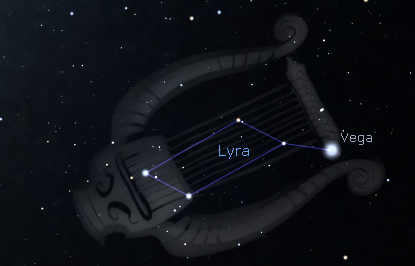
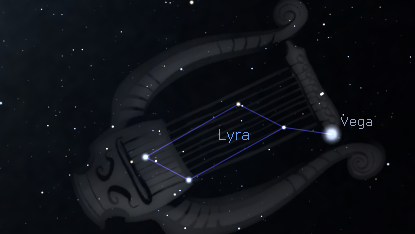
Corecting Image size + adding accordion to List

diff --git a/Constellations/cssTest/list/list.js b/Constellations/cssTest/list/list.js
@@ -1,4 +1,5 @@
 const jsonAPi = "http://localhost:3000/";
+const modalConstellation = document.getElementById("modalConstellation");
 const getConstellations = async () => {
 	try {
 		const res = await axios.get(jsonAPi + "constellations");
@@ -23,6 +24,10 @@ const createLinkName = (constellation) => {
 
 	newDiv.append(starImg, divName);
 	season.append(newDiv);
+
+	newDiv.addEventListener("click", () => {
+		test(constellation);
+	});
 };
 
 const organiseConstellation = async () => {
@@ -36,10 +41,98 @@ const organiseConstellation = async () => {
 };
 
 organiseConstellation();
-const nameOfconst = document.querySelectorAll(".containerName");
 
-nameOfconst.forEach((constellation) => () => {
-	constellation.addEventListener("click", () => {
-		console.log("coucou");
-	});
+const activateAccordion = () => {
+	const accordion = document.getElementsByClassName("container");
+
+	for (i = 0; i < accordion.length; i++) {
+		accordion[i].addEventListener("click", function () {
+			this.classList.toggle("active");
+		});
+	}
+};
+
+const test = (constellation) => {
+	modalConstellation.style.display = "block";
+
+	const accordionContent = document.querySelector(".accordion");
+	accordionContent.innerHTML = "";
+
+	const accordionTitle = document.createElement("h1");
+	accordionTitle.innerText = constellation.name;
+
+	const descriptionTitle = document.createElement("div");
+	descriptionTitle.innerText = "Small description";
+	descriptionTitle.className = "label";
+	const imageOfStars = document.createElement("img");
+	imageOfStars.src = `../${constellation.imageConstellation}`;
+	const divText = document.createElement("div");
+	divText.innerText = constellation.quickDescription;
+	const divDescriptionAll = document.createElement("div");
+	divDescriptionAll.className = "content";
+	divDescriptionAll.append(imageOfStars, divText);
+	const divDescriptionContainer = document.createElement("div");
+	divDescriptionContainer.className = "container";
+	divDescriptionContainer.append(descriptionTitle, divDescriptionAll);
+	const hrDescription = document.createElement("hr");
+
+	const schemaTitle = document.createElement("div");
+	schemaTitle.innerText = "The stars that compose it";
+	schemaTitle.className = "label";
+	const schemaOfStars = document.createElement("img");
+	schemaOfStars.src = `../${constellation.imageStars}`;
+	const divStarText = document.createElement("div");
+	divStarText.innerText = constellation.mostBrillantStars;
+	const divSchemaAll = document.createElement("div");
+	divSchemaAll.className = "content";
+	divSchemaAll.append(schemaOfStars, divStarText);
+	const divSchemaContainer = document.createElement("div");
+	divSchemaContainer.className = "container";
+	divSchemaContainer.append(schemaTitle, divSchemaAll);
+	const hrSchema = document.createElement("hr");
+
+	const mythTitle = document.createElement("div");
+	mythTitle.innerText = `${constellation.name} in mythologie`;
+	mythTitle.className = "label";
+	const imageOfMyth = document.createElement("img");
+	imageOfMyth.src = `../${constellation.imageMyth}`;
+	const divTextMyth = document.createElement("div");
+	divTextMyth.innerText = constellation.mythology;
+	const divMythAll = document.createElement("div");
+	divMythAll.className = "content";
+	divMythAll.append(imageOfMyth, divTextMyth);
+	const divMythContainer = document.createElement("div");
+	divMythContainer.className = "container";
+	divMythContainer.append(mythTitle, divMythAll);
+	const hrMyth = document.createElement("hr");
+
+	const observTitle = document.createElement("div");
+	observTitle.innerText = `Observing ${constellation.name}`;
+	observTitle.className = "label";
+	const observInstruction = document.createElement("div");
+	observInstruction.innerText = constellation.observation;
+	observInstruction.className = "content";
+	const divObservContainer = document.createElement("div");
+	divObservContainer.className = "container";
+	divObservContainer.append(observTitle, observInstruction);
+	const hrObs = document.createElement("hr");
+
+	accordionContent.append(
+		accordionTitle,
+		divDescriptionContainer,
+		hrDescription,
+		divSchemaContainer,
+		hrSchema,
+		divMythContainer,
+		hrMyth,
+		divObservContainer,
+		hrObs
+	);
+	activateAccordion();
+};
+
+const closeButton = document.querySelector(".close");
+
+closeButton.addEventListener("click", () => {
+	modalConstellation.style.display = "none";
 });

diff --git a/Constellations/cssTest/list/list.html b/Constellations/cssTest/list/list.html
@@ -79,42 +79,48 @@
 		<main>
 			<section class="north">
 				<h2>Hémisphère nord</h2>
-				<div class="test">
+				<div class="seasonContainer">
 					<h3>Constellations d'été</h3>
 					<div class="season summer"></div>
 				</div>
-				<div>
+				<div class="seasonContainer">
 					<h3>Constellations d'automne</h3>
 					<div class="season autumn"></div>
 				</div>
-				<div>
+				<div class="seasonContainer">
 					<h3>Constellations d'hiver</h3>
 					<div class="season winter"></div>
 				</div>
-				<div>
+				<div class="seasonContainer">
 					<h3>Constellations du printemps</h3>
 					<div class="season spring"></div>
 				</div>
 			</section>
 			<section class="south">
 				<h2>Hémisphère sud</h2>
-				<div>
+				<div class="seasonContainer">
 					<h3>Constellations d'été</h3>
 					<div class="season summer"></div>
 				</div>
-				<div>
+				<div class="seasonContainer">
 					<h3>Constellations d'automne</h3>
 					<div class="season autumn"></div>
 				</div>
-				<div>
+				<div class="seasonContainer">
 					<h3>Constellations d'hiver</h3>
 					<div class="season winter"></div>
 				</div>
-				<div>
+				<div class="seasonContainer">
 					<h3>Constellations du printemps</h3>
 					<div class="season spring"></div>
 				</div>
 			</section>
+			<div id="modalConstellation" class="modal">
+				<div class="accordion-body">
+					<button class="close">X</button>
+					<div class="accordion" id="accordion"></div>
+				</div>
+			</div>
 		</main>
 		<footer></footer>
 	</body>

diff --git a/Constellations/cssTest/list/list.css b/Constellations/cssTest/list/list.css
@@ -48,8 +48,6 @@ main{
         
        
     }
-   
-
     
 }
 
@@ -61,4 +59,19 @@ main{
 
 .containerName:hover{
     cursor: pointer;
+}
+
+.close{
+    padding: 1%;
+
+}
+
+.seasonContainer{
+    display: flex;
+    flex-direction: column;
+    align-items: center;
+}
+
+@media (max-width: 600px){
+    
 }
